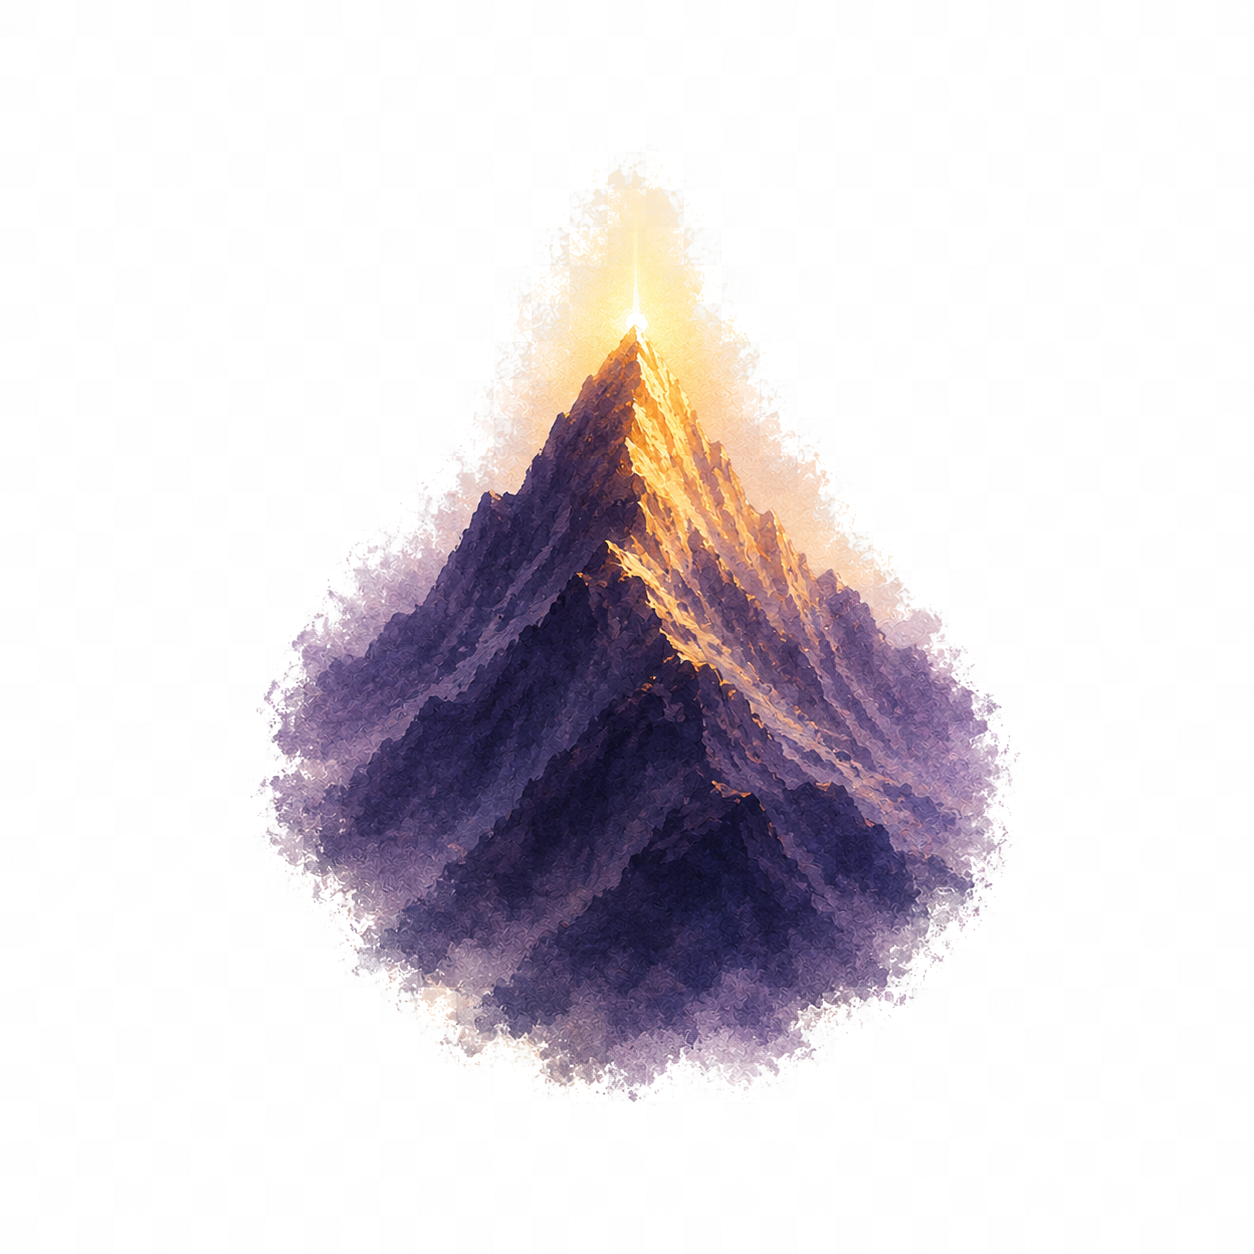
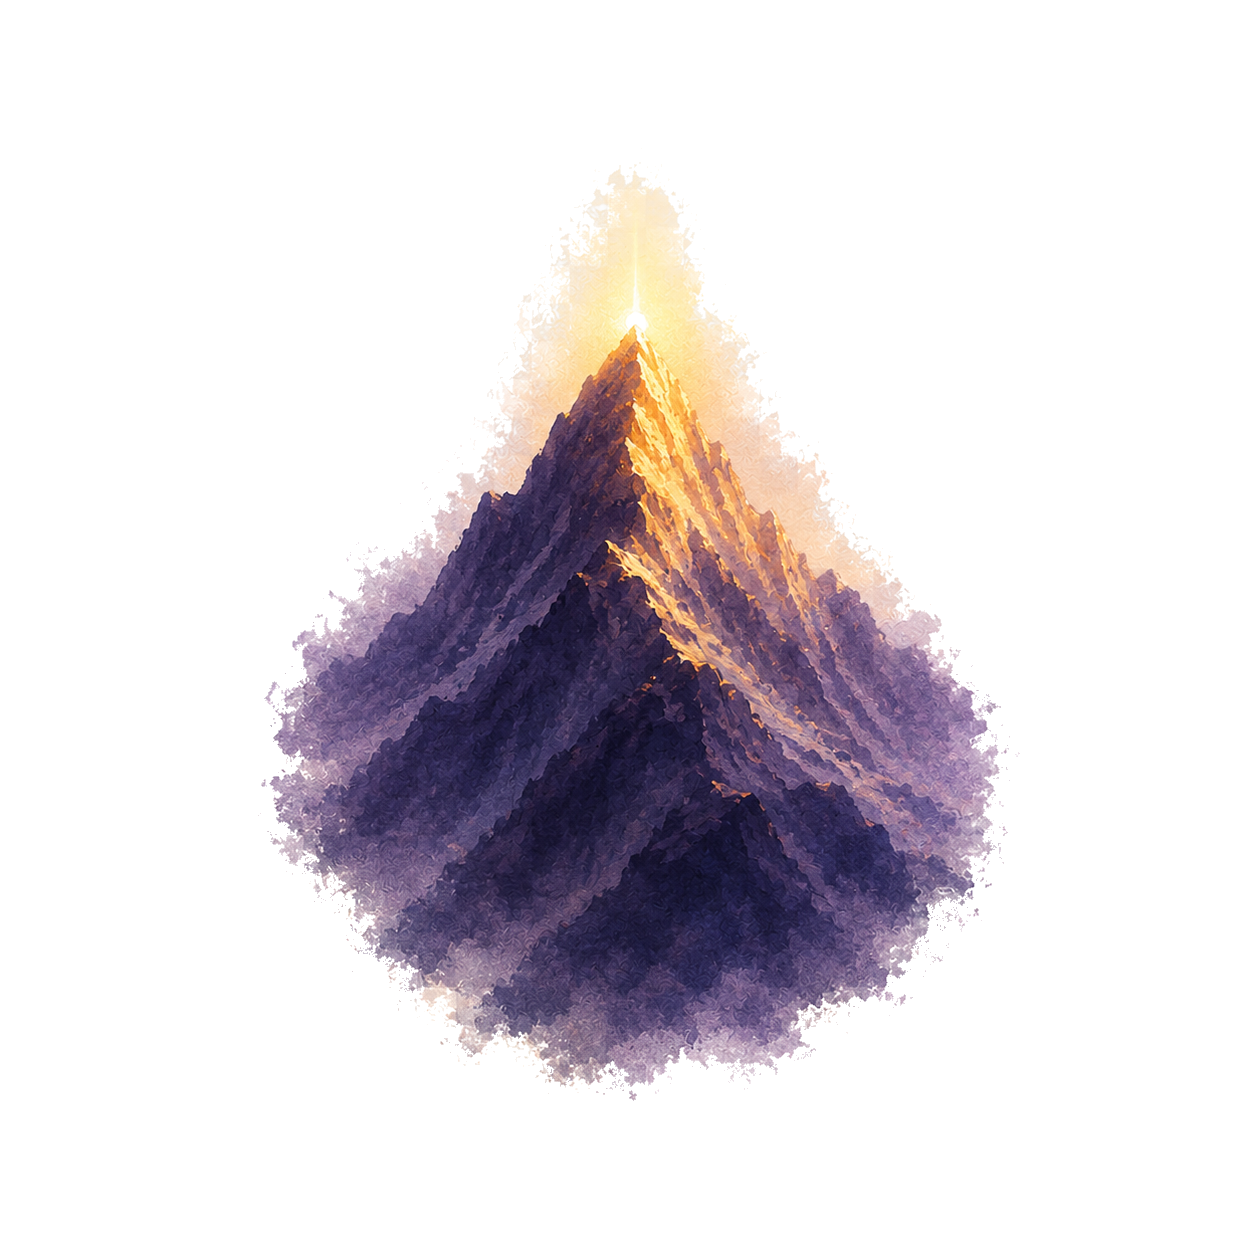
Fix residual checkerboard + header dome + disabled-button look
The transparency checkerboard was still visible on the Dua category tiles,
the Günlük empty-state sprout, and every cutout illustration. v1 keyed by
lightness, which cleared the light checker squares but left the darker ones
as faint semi-opaque gray — a visible grid on the dark surface.

- Assets: re-key every cutout (A1, A6, A7, A9, A11-*, A12, A14, A15) with an
  edge flood-fill that clears the *neutral* border checker to full alpha 0
  while preserving the interior warm glow (enclosed by colored illustration,
  never reached from the edge). Verified by compositing each over the app
  surface (#171C2E): backgrounds are now clean, no residual grid.
- today.tsx: replace the 340px gold disc behind the header — which read as an
  unintentional dark dome — with a soft top-down gradient wash (no shape edge).
- PillButton: the disabled state dimmed the gold gradient to 40% opacity,
  reading as a muddy/broken button. Render a flat neutral chip with faint
  text instead, so "nothing to save yet" is unambiguous.

Claude-Session: https://claude.ai/code/session_013EQ2pxsNyzrv55npdjiwwP

diff --git a/src/components/PillButton.tsx b/src/components/PillButton.tsx
@@ -16,7 +16,15 @@ interface Props {
 
 export function PillButton({ label, onPress, variant = 'primary', disabled, style }: Props) {
   const t = useTheme();
-  const color = variant === 'primary' ? t.onGold : variant === 'secondary' ? t.ink : t.inkSoft;
+  // Disabled reads as a flat, clearly-inactive neutral chip — dimming the gold
+  // gradient to 40% instead looks like a muddy/broken button, not "not yet".
+  const color = disabled
+    ? t.inkFaint
+    : variant === 'primary'
+      ? t.onGold
+      : variant === 'secondary'
+        ? t.ink
+        : t.inkSoft;
 
   const inner = (pressed: boolean) => (
     <View
@@ -47,10 +55,14 @@ export function PillButton({ label, onPress, variant = 'primary', disabled, styl
         {
           borderRadius: radius.pill,
           overflow: 'hidden',
-          opacity: disabled ? 0.4 : 1,
           transform: [{ scale: pressed ? 0.97 : 1 }],
-          backgroundColor:
-            variant === 'secondary' ? t.surfaceAlt : variant === 'ghost' ? 'transparent' : undefined,
+          backgroundColor: disabled
+            ? t.surfaceAlt
+            : variant === 'secondary'
+              ? t.surfaceAlt
+              : variant === 'ghost'
+                ? 'transparent'
+                : undefined,
           // candlelight glow under the primary action
           ...(variant === 'primary' && !disabled
             ? {
@@ -66,7 +78,7 @@ export function PillButton({ label, onPress, variant = 'primary', disabled, styl
       ]}
     >
       {({ pressed }) =>
-        variant === 'primary' ? (
+        variant === 'primary' && !disabled ? (
           <LinearGradient
             colors={['#E2B04A', '#C99534']}
             start={{ x: 0, y: 0 }}

diff --git a/app/(tabs)/today.tsx b/app/(tabs)/today.tsx
@@ -51,19 +51,15 @@ export default function Today() {
 
   return (
     <Screen tabbed>
-      {/* candle-glow halo behind the header */}
-      <View
+      {/* candle-glow wash behind the header — a soft top-down fade, not a hard
+          disc. The old 340px circle read as an unintentional dark dome; a
+          vertical gradient bleeds warmth in without a visible shape edge. */}
+      <LinearGradient
         pointerEvents="none"
-        style={{
-          position: 'absolute',
-          top: -120,
-          alignSelf: 'center',
-          width: 340,
-          height: 340,
-          borderRadius: 170,
-          backgroundColor: t.gold,
-          opacity: 0.07,
-        }}
+        colors={['rgba(217,164,65,0.10)', 'rgba(217,164,65,0.0)']}
+        start={{ x: 0.5, y: 0 }}
+        end={{ x: 0.5, y: 1 }}
+        style={{ position: 'absolute', top: -60, left: -40, right: -40, height: 300 }}
       />
 
       {/* Header */}
